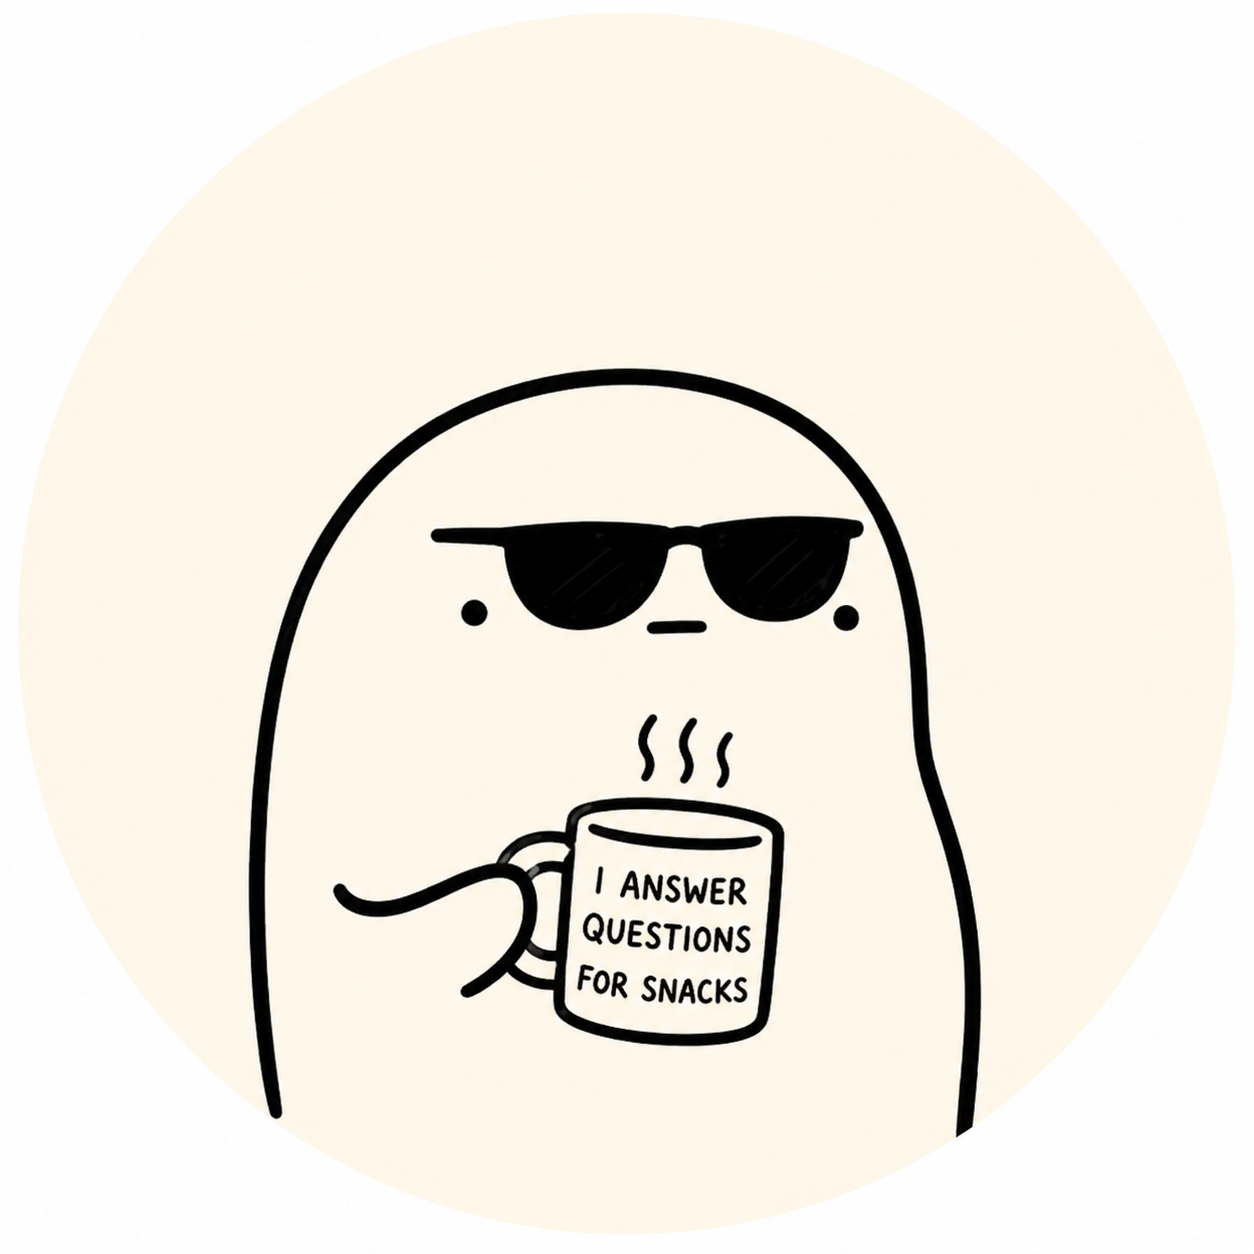
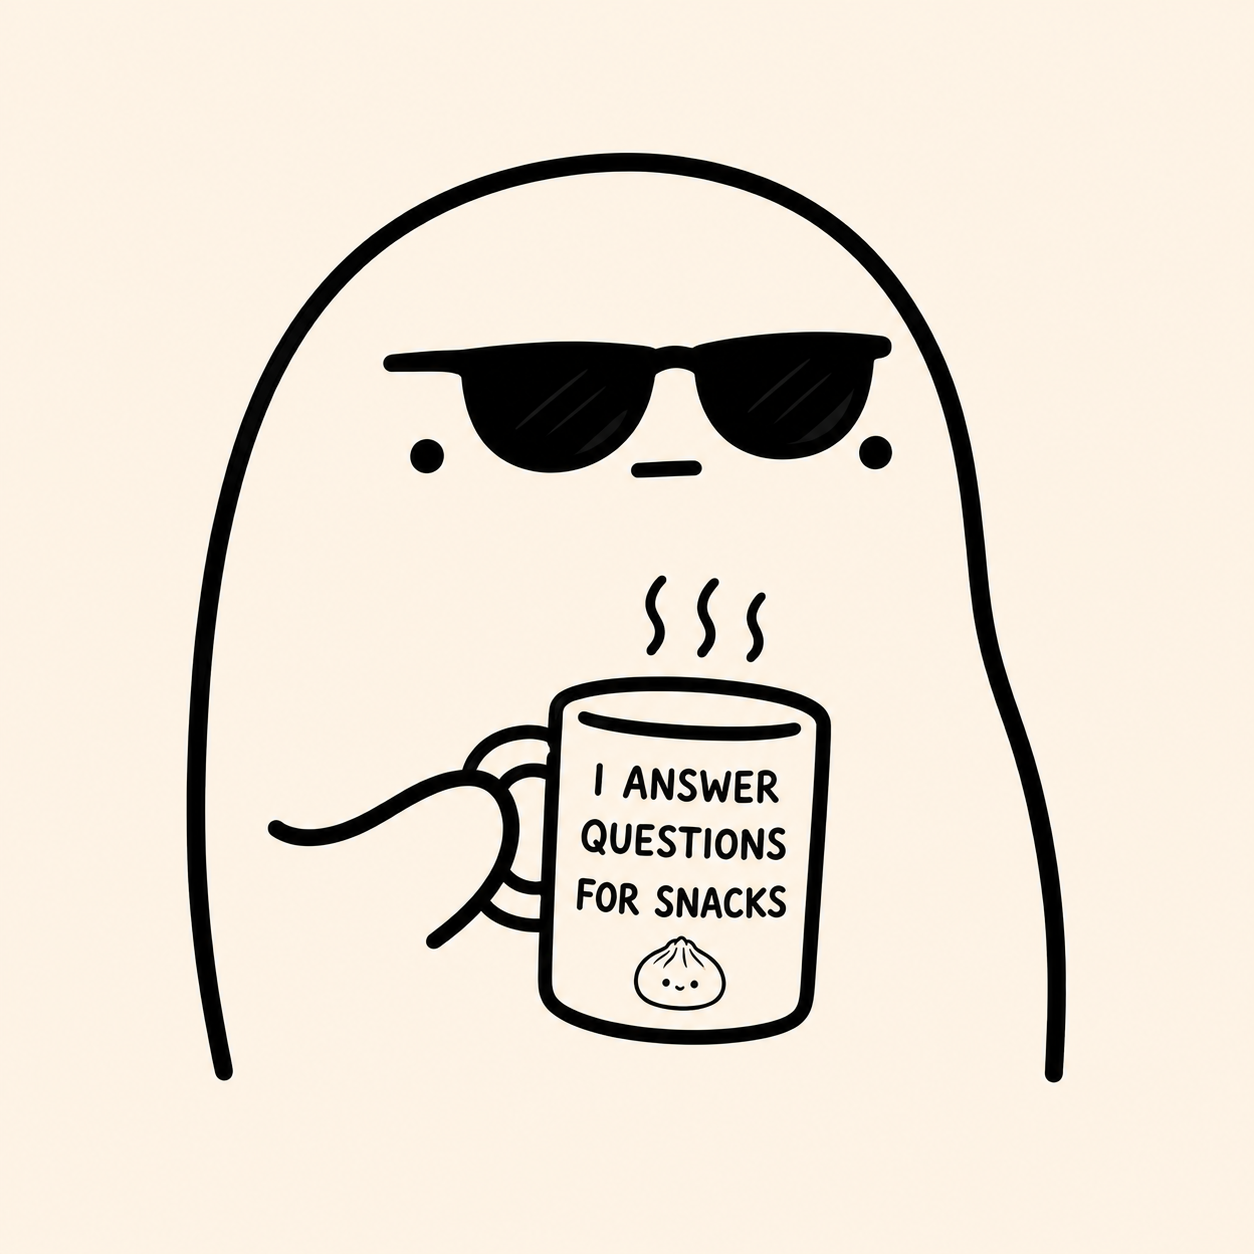
Update UI with new images and fix textbox
Currently the textbox width does not grow when I increase width of the app.
Adding AnchorPane.rightAnchor in the fxml file fixes this.
Also allowed the chatbox to start with an opening message when starting the app,
aligning with the behaviour of the CLI.

diff --git a/src/main/java/tardt/app/MainWindow.java b/src/main/java/tardt/app/MainWindow.java
@@ -12,6 +12,7 @@ import javafx.scene.layout.VBox;
 import javafx.stage.Stage;
 import javafx.util.Duration;
 import tardt.TardT;
+import tardt.ui.Ui;
 
 /**
  * Controller for the main GUI.
@@ -39,6 +40,13 @@ public class MainWindow extends AnchorPane {
     /** Injects the TardT instance */
     public void setTardT(TardT t) {
         tardT = t;
+        dialogContainer.getChildren().add(
+                DialogBox.getTardTDialog(
+                        "Hello! I'm Tard_T. \n"
+                                + "What can I do for you?",
+                        tardTImage
+                )
+        );
     }
 
     /**
@@ -77,6 +85,5 @@ public class MainWindow extends AnchorPane {
         timeline.play();
     }
 }
-
 
 

diff --git a/src/test/java/UiTest.java b/src/test/java/UiTest.java
@@ -26,7 +26,7 @@ class UiTest {
      */
     private static final Path SAVE_FILE = Path.of("data", "tasks.txt");
 
-    private static final String WELCOME = "Hello! I'm Tard_T.Tard_T. \n"
+    private static final String WELCOME = "Hello! I'm Tard_T. \n"
             + "What can I do for you? \n"
             + "____________________________________________________________\n\n";
     private static final String SEPARATOR = "____________________________________________________________\n";

diff --git a/src/main/java/tardt/ui/Ui.java b/src/main/java/tardt/ui/Ui.java
@@ -17,7 +17,7 @@ public class Ui {
      * Shows the welcome message when the application starts.
      */
     public void showWelcome() {
-        String intro = "Hello! I'm Tard_T.Tard_T. \n"
+        String intro = "Hello! I'm Tard_T. \n"
                 + "What can I do for you? \n"
                 + LINE + "\n";
         System.out.println(intro);

diff --git a/src/main/java/tardt/TardT.java b/src/main/java/tardt/TardT.java
@@ -10,7 +10,7 @@ import tardt.task.TaskList;
 import tardt.ui.Ui;
 
 
-/** Provides the interactive command-line interface for the Tard_T.Tard_T task manager. */
+/** Provides the interactive command-line interface for the Tard_T task manager. */
 public class TardT {
     private static final Path SAVE_FILE = Paths.get("data", "tasks.txt");
 

diff --git a/src/main/java/tardt/app/Main.java b/src/main/java/tardt/app/Main.java
@@ -10,7 +10,7 @@ import javafx.stage.Stage;
 import tardt.TardT;
 
 /**
- * A GUI for Duke using FXML.
+ * A GUI for TardT using FXML.
  */
 public class Main extends Application {
 
